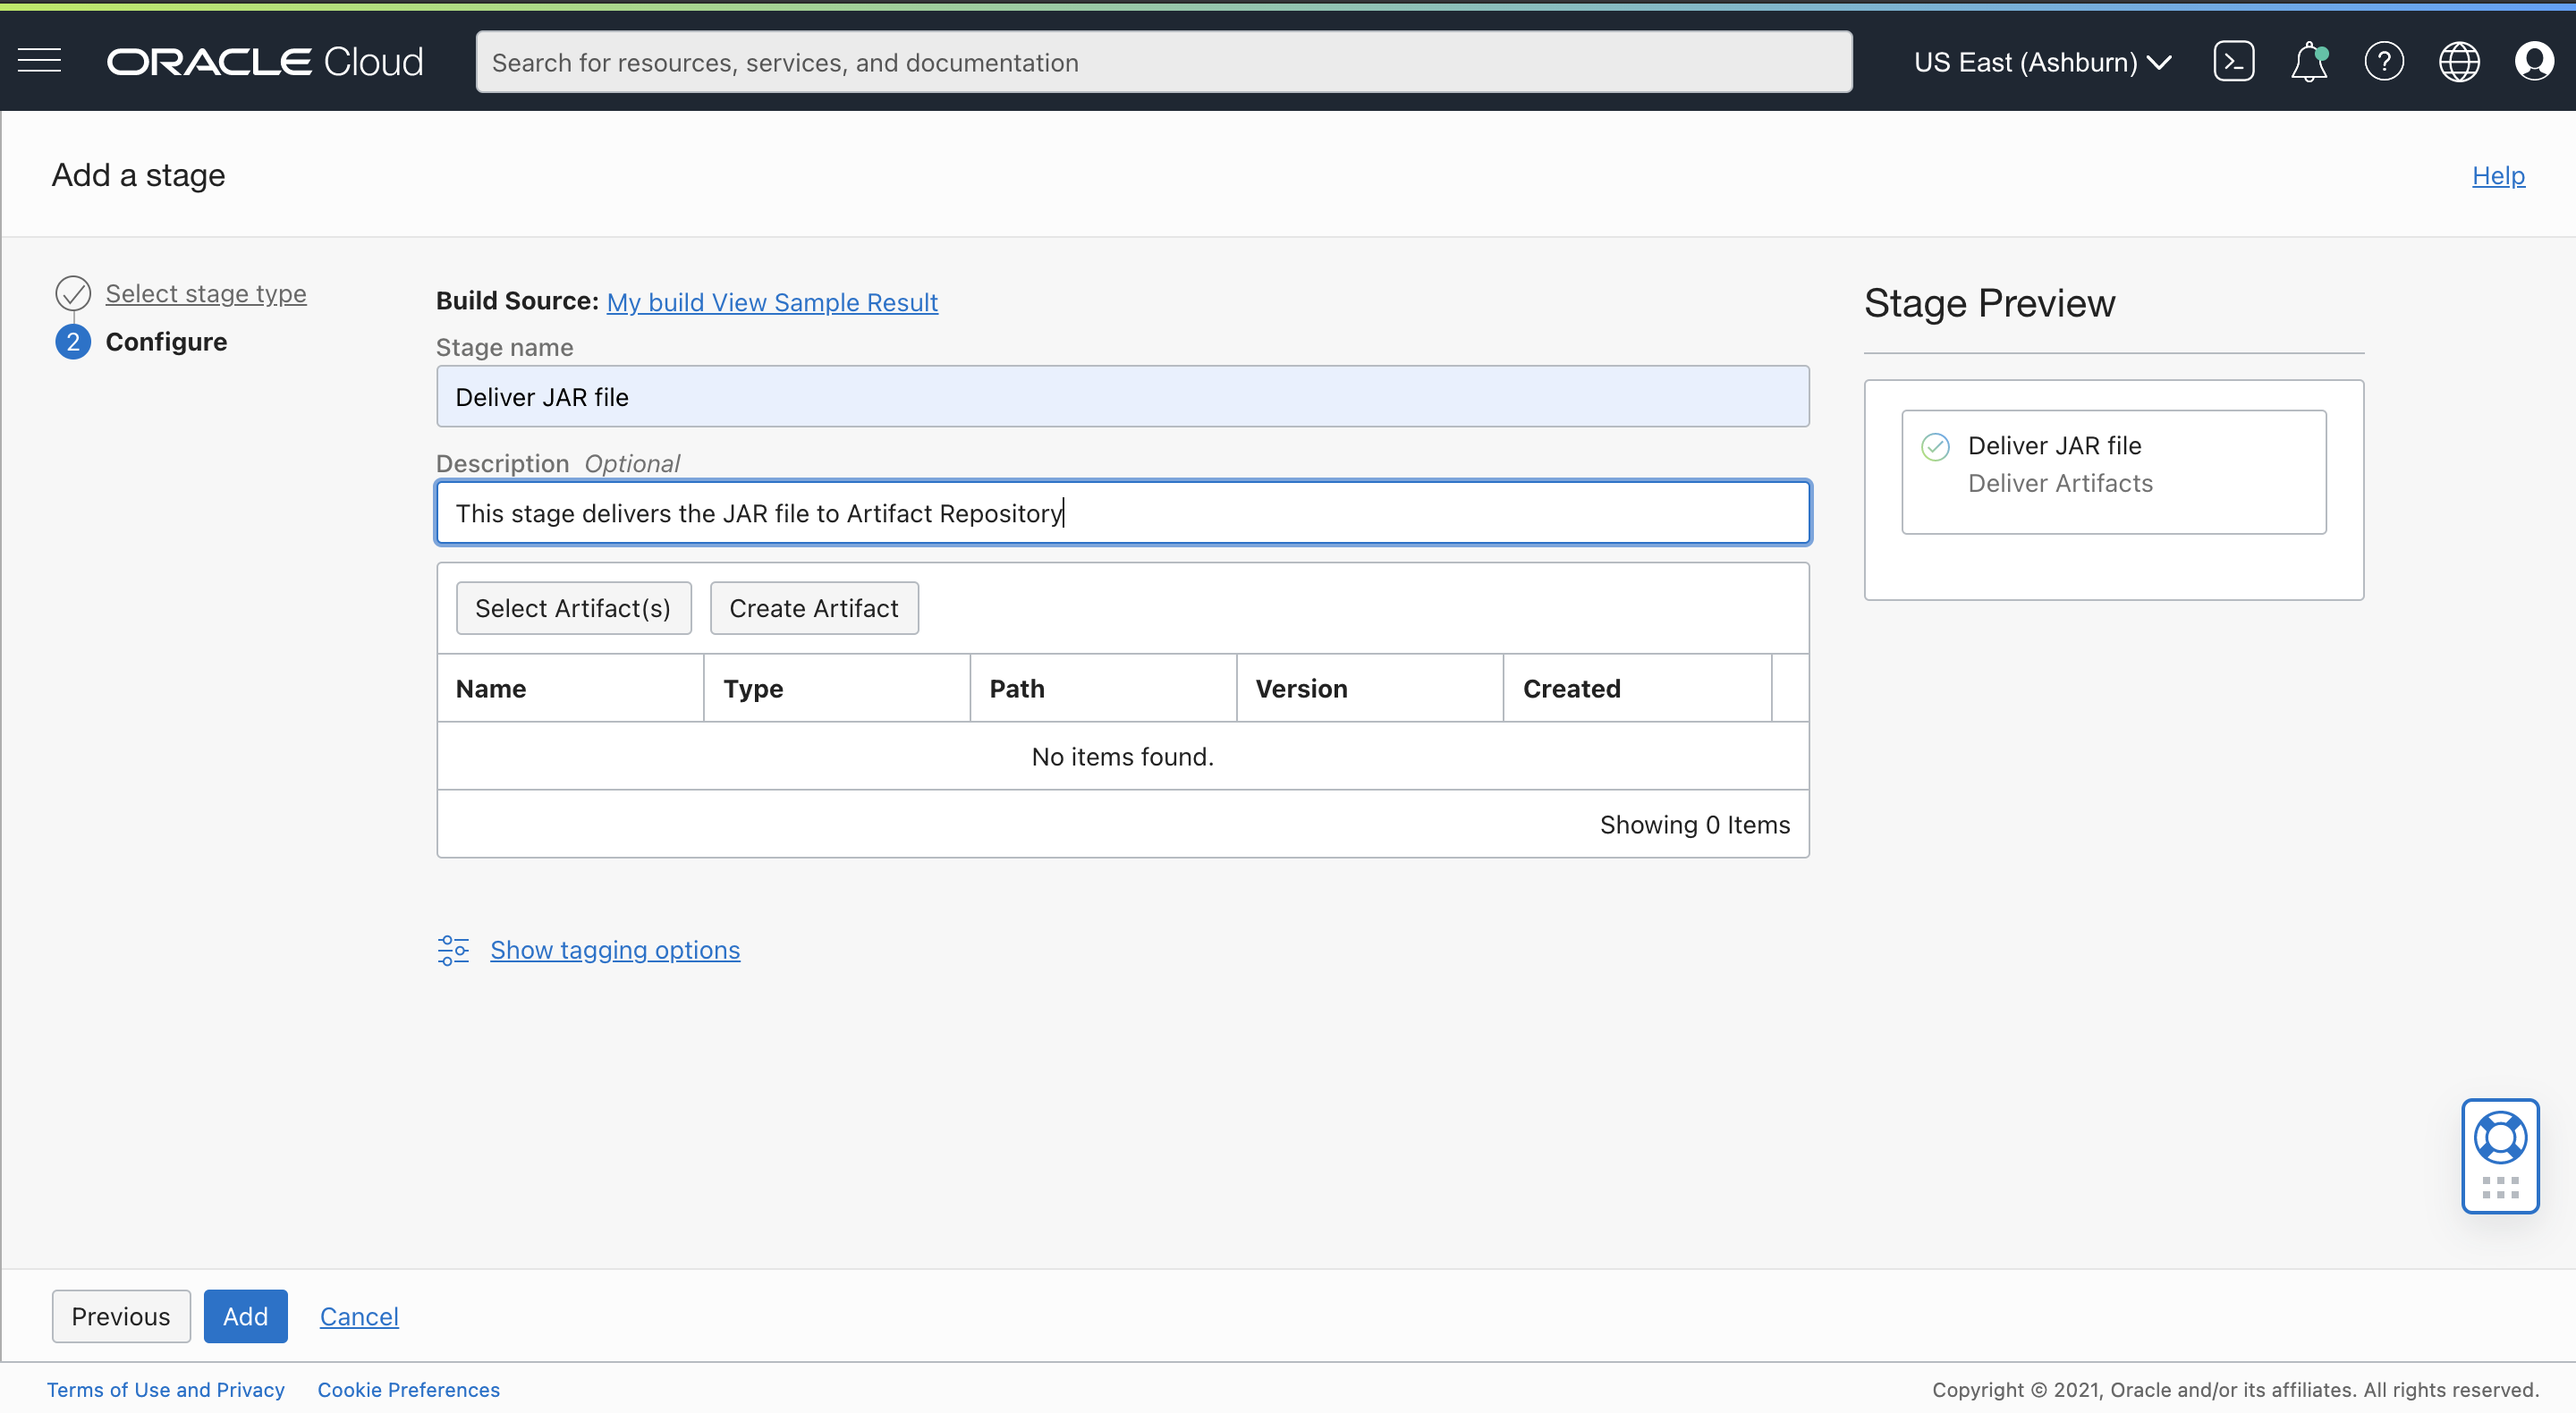
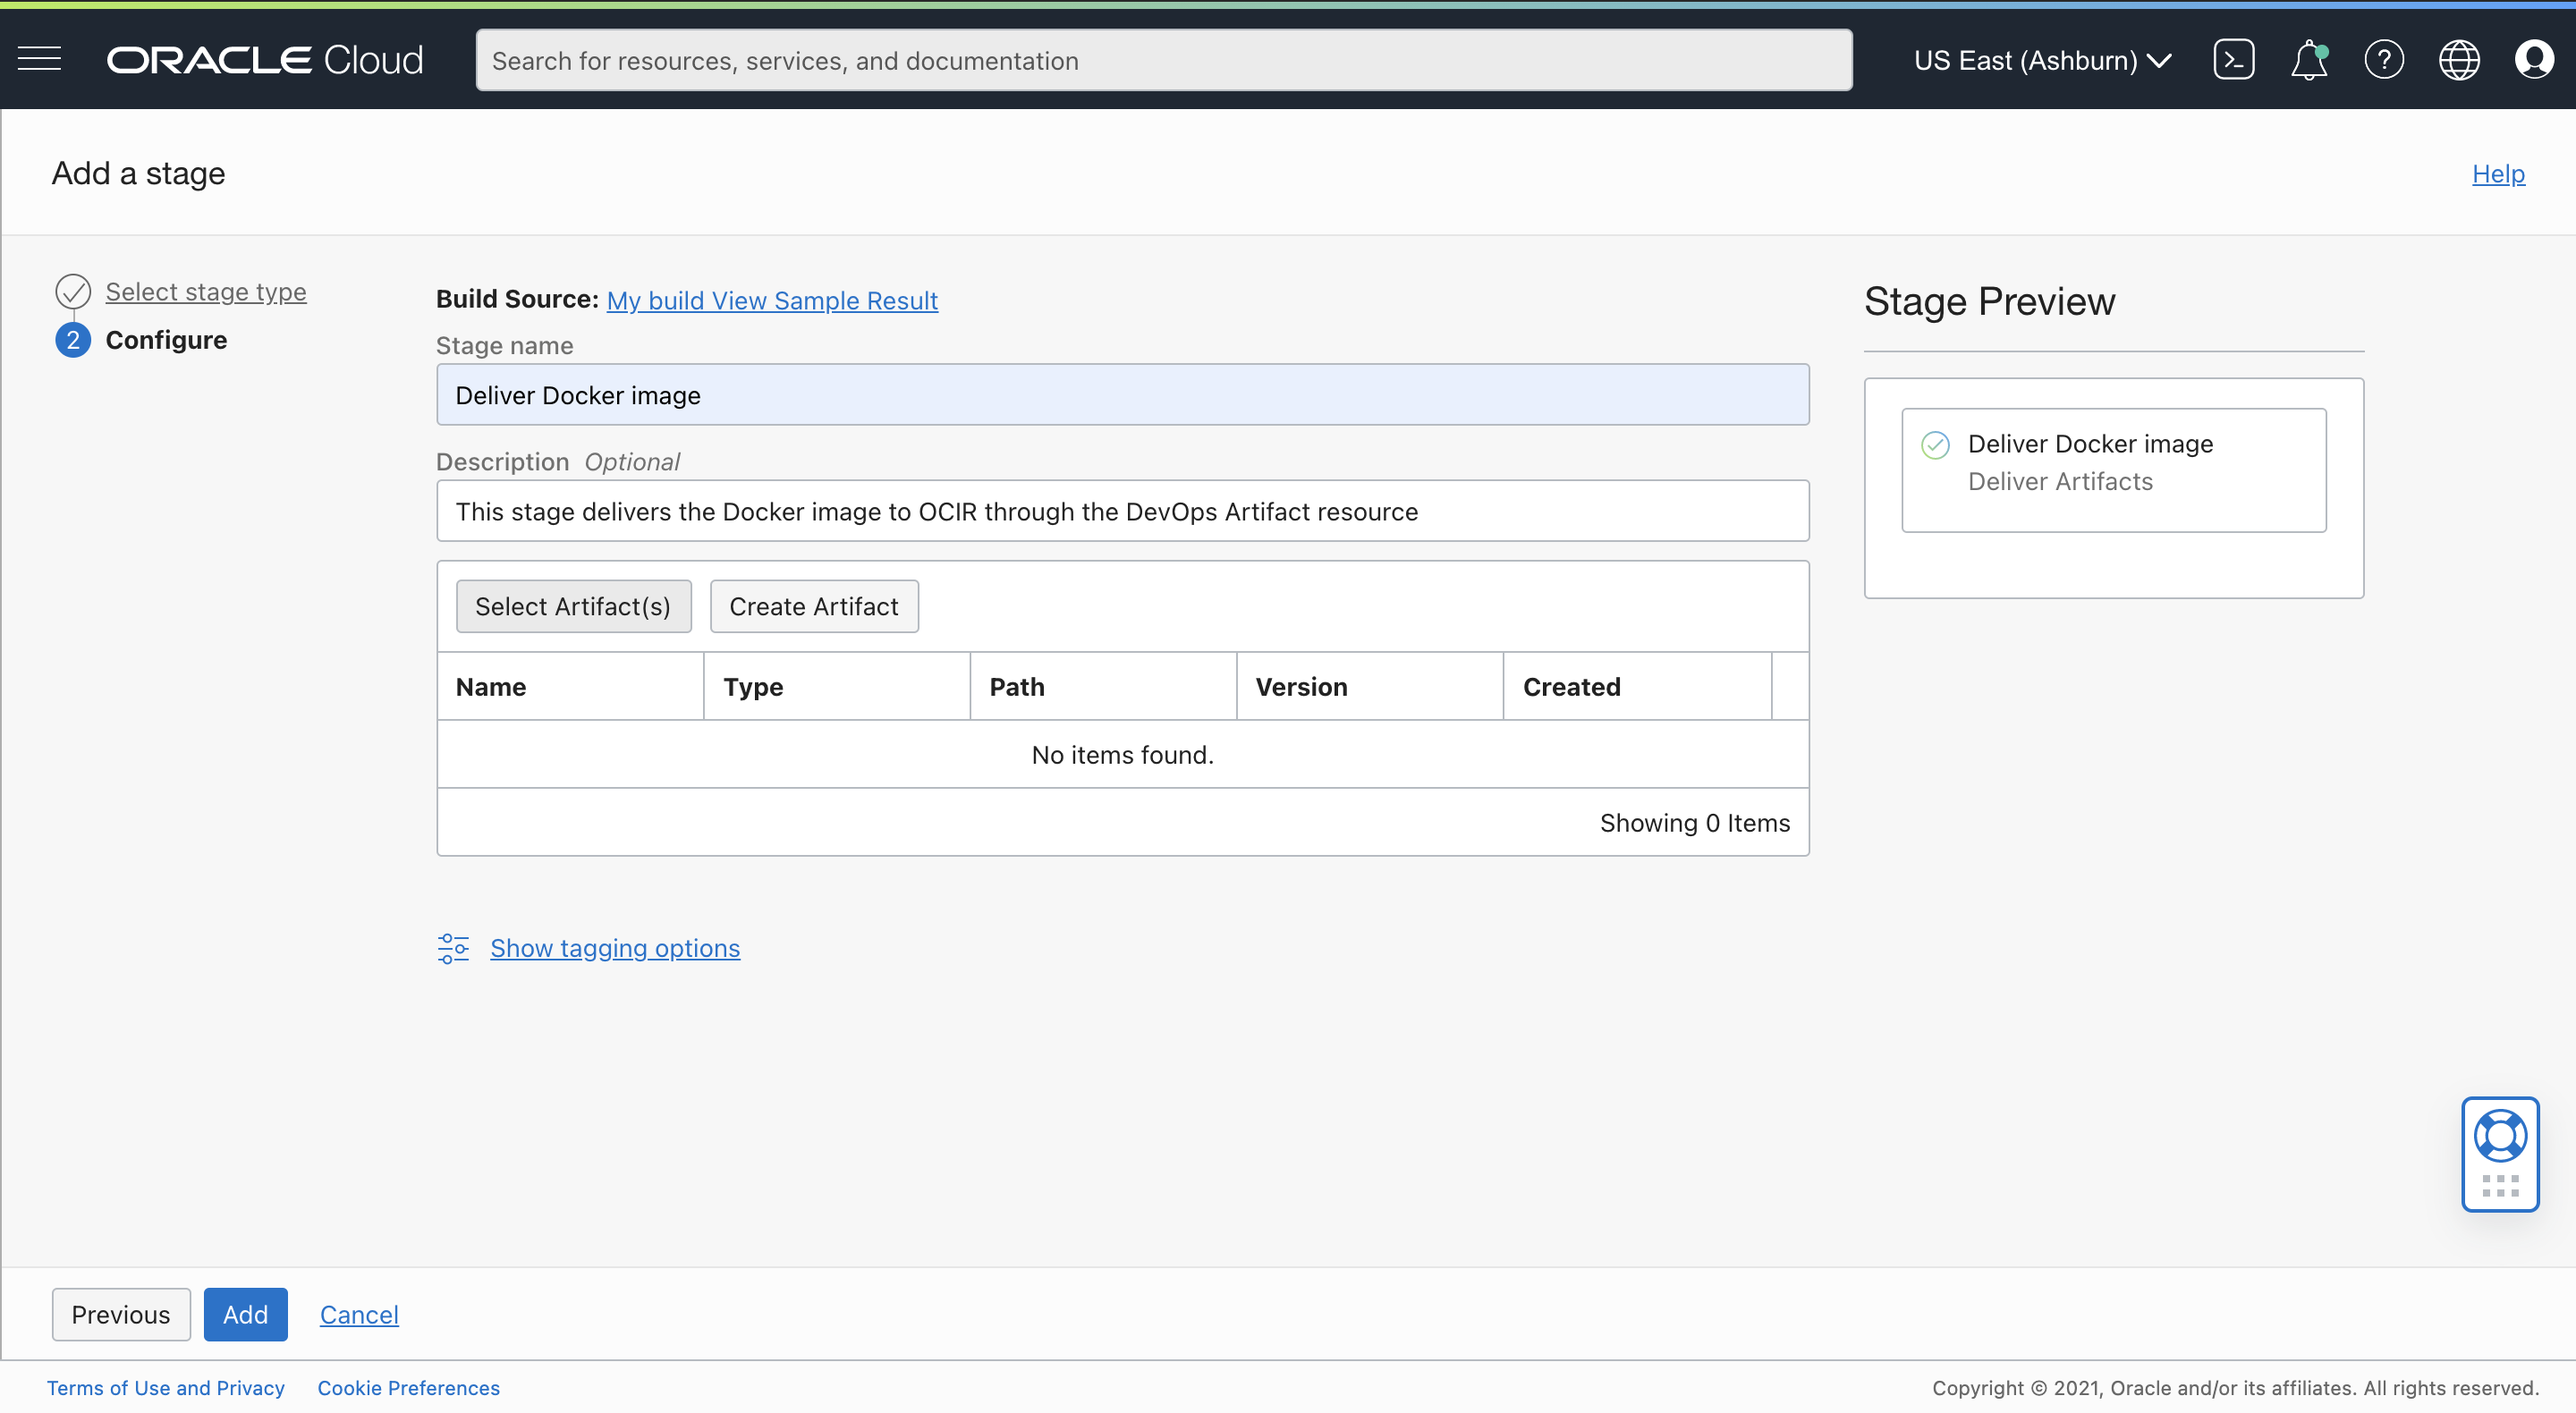
java-maven changes

diff --git a/examples/java-maven/README.md b/examples/java-maven/README.md
@@ -1,8 +1,11 @@
 # Build Spec File Example using Java and Maven
 
-This is an example Hello World project using JDK 15 and Maven. With the [OCI DevOps service](https://www.oracle.com/devops/devops-service/) and this project, you'll be able to build this application, package it as a JAR file and store it in [OCI Artifact Registry.](https://docs.oracle.com/en-us/iaas/artifacts/using/overview.htm)
+This is an example Hello World project using JDK 15 and Maven. With the [OCI DevOps service](https://www.oracle.com/devops/devops-service/) 
+and this project, you'll be able to build this application as a JAR file, create a Docker image from it and store it in
+[OCI Container Registry.](https://docs.oracle.com/en-us/iaas/Content/Registry/Concepts/registryoverview.htm)
 
-In this example, you'll install JDK 15, build a JAR file of this Java Hello World Spring Boot Web app, and store your JAR file in the OCI Artifact Registry,  all using the OCI DevOps service!
+In this example, you'll install JDK 15, build a JAR file of this Java Hello World Spring Boot Web app, create a Docker 
+image from it and store it in the OCI Container Registry, all using the OCI DevOps service!
 
 Let's go!
 
@@ -19,21 +22,30 @@ cd java-maven
 ### Install and run the application
 
 1. Install JDK 15 on your system: https://download.java.net/openjdk/jdk15/ri/openjdk-15+36_linux-x64_bin.tar.gz
-2. Compile the app: 
-   
+2. Compile the app:
+
    ```mvn clean install```
 3. To verify, make sure the JAR file is created in your target folder.
+
+### Build a container image for the app
+You can locally build a container image using docker (or your favorite container image builder), to verify that you can run the app within a container.
+
+```
+docker build -t hello-world:1.0 .
+```
+
+Verify that your image was built, with `docker images`
 
 ## Building the application in OCI DevOps
 Now that you've seen you can locally build this app, let's try this out through OCI DevOps Build service.
 
-### Create External Connection to your Git repository 
+### Create External Connection to your Git repository
 
-1. Create a [DevOps Project](https://docs.oracle.com/en-us/iaas/Content/devops/using/devops_projects.htm) or use and an existing project. 
+1. Create a [DevOps Project](https://docs.oracle.com/en-us/iaas/Content/devops/using/devops_projects.htm) or use and an existing project.
 2. In your DevOps project, create an External Connection to your GitHub repository which holds your application.
    - Create a Personal Access Token (PAT): https://docs.github.com/en/github/authenticating-to-github/keeping-your-account-and-data-secure/creating-a-personal-access-token
    - In the OCI Console, Go to Identity & Security -> Vault and create a [Vault]( https://docs.oracle.com/en-us/iaas/Content/KeyManagement/Concepts/keyoverview.htm) in compartment of your own choice.
-   - Create a Master Key that will be used to encrypt the PATs. 
+   - Create a Master Key that will be used to encrypt the PATs.
    - Select Secrets from under Resources and create a secret using PAT obtained from GitHub account.
    - Make a note of the OCID of the secret.
    - Now, go to the desired project and select External Connection from the resources.
@@ -47,46 +59,42 @@ Create a new Build Pipeline to build, test and deliver artifacts from your GitHu
 In your Build Pipeline, first add a Managed Build stage
 1. The Build Spec File Path is the relative location in your repo of the build_spec.yaml . Leave the default, for this example.
 2. For the Primary Code Repository follow the below steps
-    - Select connection type as GitHub
-    - Select the external connection you created above
-    - Give the HTTPS URL to the repo which contains your application.
-    - Select main branch.
-    
-### Create a Artifact Registry repository
-Reference: https://docs.oracle.com/en-us/iaas/artifacts/using/overview.htm
-1. Go to Artifact Registry and click on Create Repository.
-2. Fill in the details and click on Create and the repo will be created. Note down the ocid for the repo created.
-
-<img src="./assets/Creating Registry.png" />
-
-### Create a DevOps Artifact for your artifact repository
-1. Next go to your project and in the Artifacts section, click on Add artifact.
-2. Fill in the details as below:
-    - Name: java-maven-artifact
-    - Type: General Artifact
-    - Artifact Source : Artifact Registry repository
-    - Select Artifact registry repository as the one created in previous step
-    - Artifact location: Choose set Custom location and provide path(target/HelloWorld-0.0.1-SNAPSHOT.jar) and version.
-    - Replace parameters: Yes, substitute placeholders
+   - Select connection type as GitHub
+   - Select the external connection you created above
+   - Give the HTTPS URL to the repo which contains your application.
+   - Select main branch.
    
-<img src="./assets/Creating DevOps Artifact.png" />
+### Create a DevOps Artifact for your container image repository
+Reference :  https://docs.oracle.com/en-us/iaas/Content/devops/using/containerimage_repository_artifact.htm
 
-Required policies must be added in the root compartment for the Artifact Registry repository and DevOps Artifact resource.
-1. Provide access to Artifact Repository to deliver artifacts : ```Allow dynamic-group dg-with-devops-resources to manage repos in tenancy```
+The version of the container image that will be delivered to the OCI repository is defined by a
+[parameter](https://docs.oracle.com/en-us/iaas/Content/devops/using/configuring_parameters.htm) in the Artifact URI that
+matches a Build Spec exported variable or Build Pipeline parameter name.
+
+Create a DevOps Artifact to point to the Container Registry repository location you just created above. Enter the 
+information for the Artifact location:
+1. Name: `java-docker-buildspec-sample-artifact`
+1. Type: Container image repository
+1. Path: `REGION/TENANCY-OBJECT-STORAGE-NAMESPACE/java-docker-buildspec-sample-image`
+1. Replace parameters: Yes
+
+<img src="./assets/Create DevOps Artifact.png" />
+
+Required policies must be added in the root compartment for the Container Registry repository and DevOps Artifact resource.
+1. Provide access to OCIR to deliver artifacts : ```Allow dynamic-group dg-with-devops-resources to manage repos in tenancy```
 2. Provide access to read deploy artifacts in deliver artifact stage : ```Allow dynamic-group dg-with-devops-resources to manage devops-family in tenancy```
 
-
 ### Add a Deliver Artifacts stage
-Let's add a **Deliver Artifacts** stage to your Build Pipeline to deliver the JAR file to an artifact repository.
+Let's add a **Deliver Artifacts** stage to your Build Pipeline to deliver the `java-docker-buildspec-sample` container image to an OCI repository.
 
-The Deliver Artifacts stage **maps** the ouput artifacts from the Managed Build stage with the version to deliver to the artifact repository, through the DevOps Artifact resource.
+The Deliver Artifacts stage **maps** the ouput Artifacts from the Managed Build stage with the version to deliver to OCI Container Registry, through the DevOps Artifact Resource.
 
 Add a **Deliver Artifacts** stage to your Build Pipeline after the **Managed Build** stage. To configure this stage:
 1. In your Deliver Artifacts stage, choose `Select Artifact`
    <img src="./assets/Final Details in Deliver Artifact Stage.png" />
-1. From the list of artifacts select the `java-maven-artifact` artifact that you created above
+1. From the list of artifacts select the `java-docker-buildspec-sample-artifact` artifact that you created above
    <img src="./assets/Selecting DevOps Artifact resource.png" />
-1. In the next section, you'll assign the  container image outputArtifact from the `build_spec.yaml` to the DevOps project artifact. For the "Build config/result Artifact name" enter: `HelloWorld-Jar`
+1. In the next section, you'll assign the  container image outputArtifact from the `build_spec.yaml` to the DevOps project artifact. For the "Build config/result Artifact name" enter: `hello_world_image`
    <img src="./assets/Final Details in Deliver Artifact Stage.png" />
 
 
@@ -97,5 +105,6 @@ Use the Manual Run button to start a Build Run
 
 Manual Run will use the Primary Code Repository, will start the Build Pipeline, first running the Managed Build stage, followed by the Deliver Artifacts stage.
 
-After the Build Pipeline execution is complete, we can view the JAR file stored in the Artifact Registry, which can then be pulled to local workspace (Click on the ellipses for more options and choose ``` Download```).
+After the Build Pipeline execution is complete, we can view the container image stored in the OCI Container Registry.
+
 
